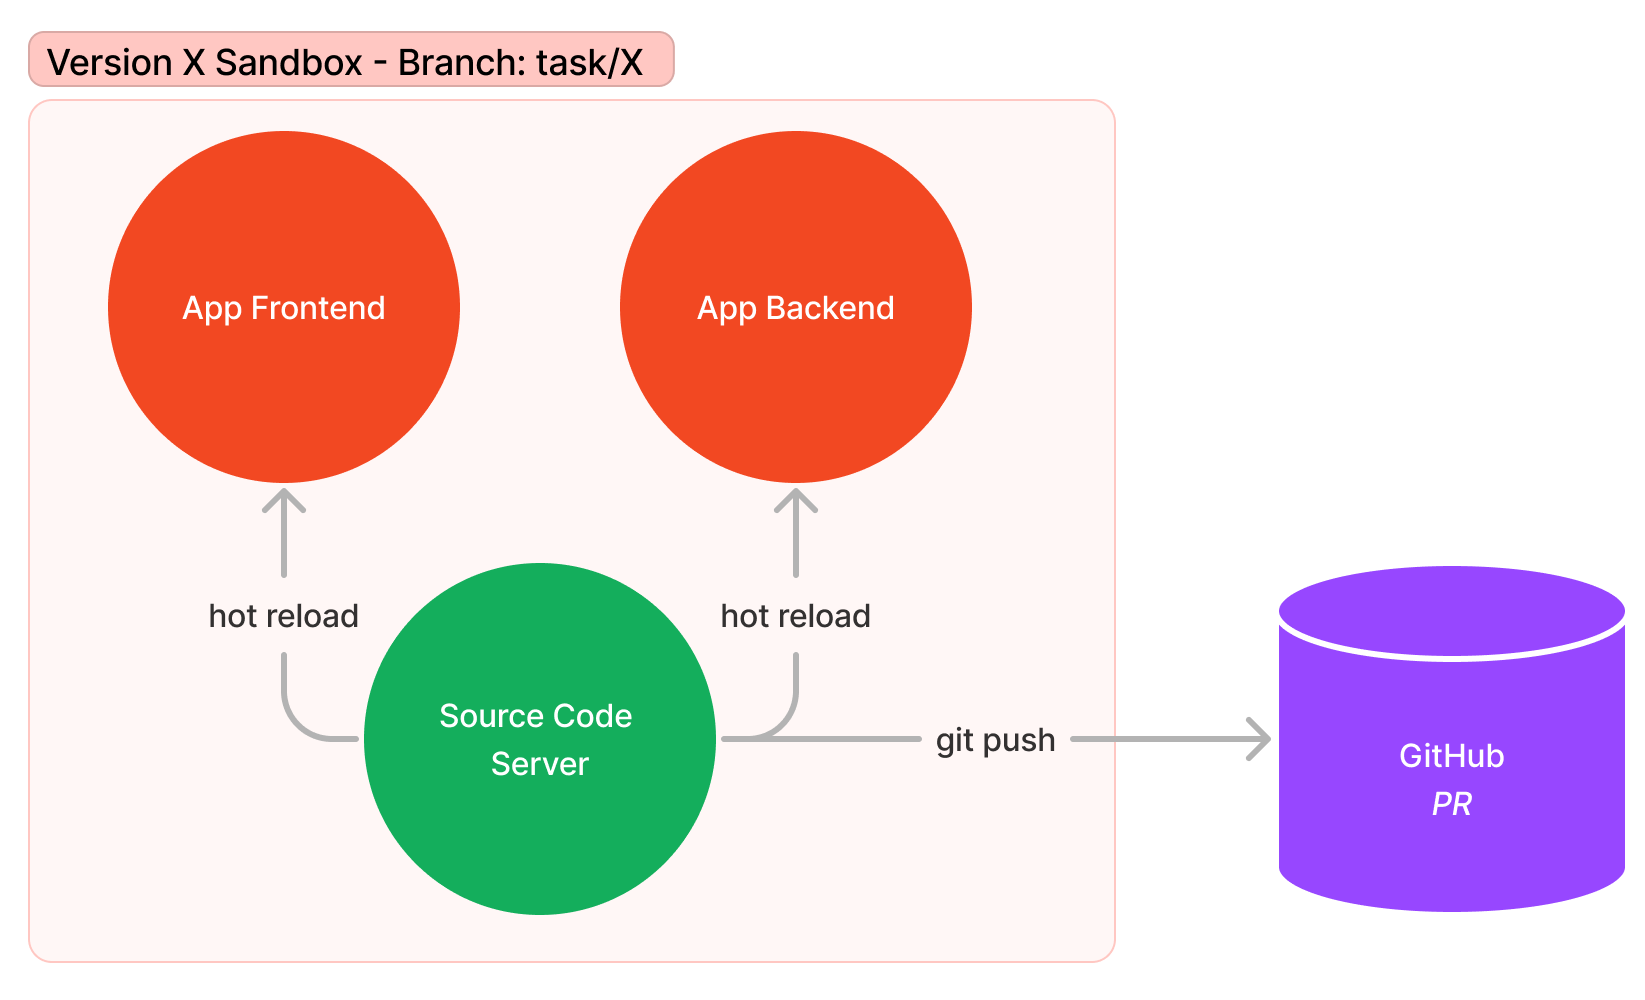
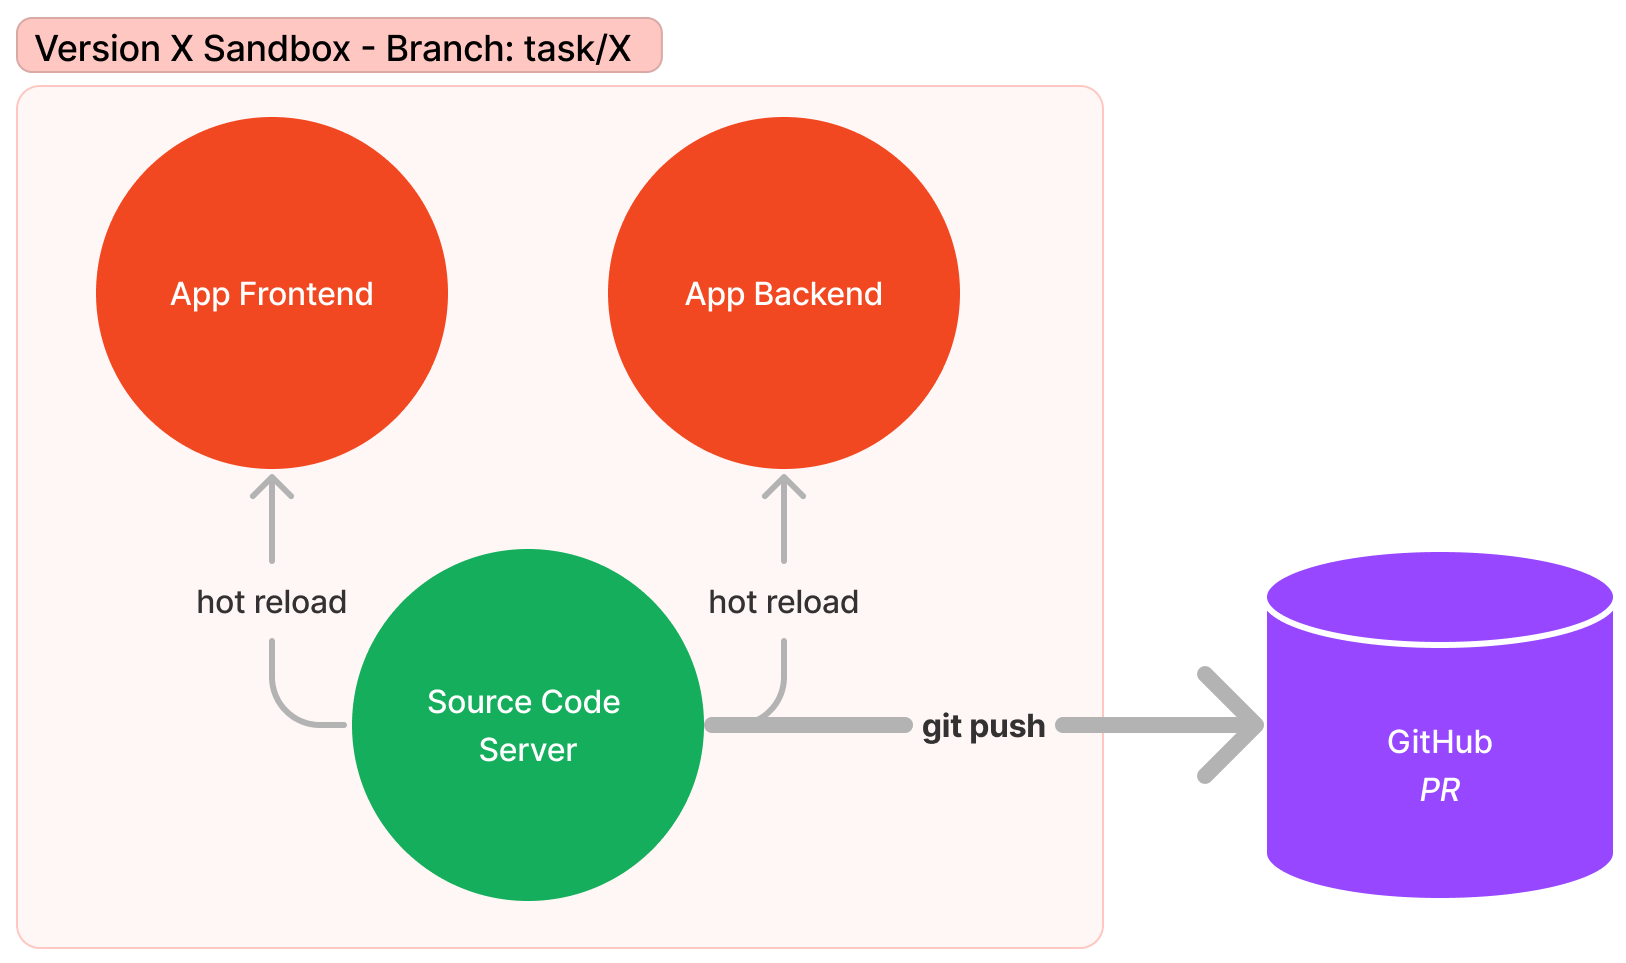
Added notes, made diagram changes more obvious

diff --git a/slides/pascal.md b/slides/pascal.md
@@ -9,6 +9,9 @@ Code-changes by AI must be "scoped"<br> - structurally restricted.<!-- .element:
 A Scope for changes should consist of:
 1. A whitelist of what is allowed to be changed <!-- .element: class="fragment" -->
 1. Guidance examples for how changes should be made <!-- .element: class="fragment" -->
+Note:
+* Without a whitelist we can't be sure what the AI is changing
+* Guidance examples greatly limit the space of possible changes, because the AI is very good at copying examples
 
 
 
@@ -27,6 +30,9 @@ An example Scope for making markup changes in a frontend app:
 | Find the element matching this description | The 'Add to basket' button |
 | Action | Make the 'Add to basket' button more prominent by increasing its size using a Tailwind class |
 <!-- .element: style="font-size: 30px;" -->
+Note:
+* Guidance examples consist of a Change Request, a file to change, an element to change, and an action to take on the element
+* A key use of Guidance Examples is to communicate the "house style", for example using Tailwind classes instead of inline styles
 
 
 
@@ -38,6 +44,8 @@ An example Scope for making markup changes in a frontend app:
 | Find the element matching this description | One product in the list of products |
 | Action | Add the product description to the element by adding a `<p>` element with the description |
 <!-- .element: style="font-size: 30px;" -->
+Note:
+* What's cool here is being able to specify "one product in the list of products", which will be inside a for-loop, and "add the description", both of which require a huge amount of context-awareness, which we haven't had until AI systems.
 
 
 
@@ -59,7 +67,7 @@ The file to change is found from a semantic search over the whitelisted files.
 
 
 
-The description is suggested by the AI given the current Change Request and the guidance examples.
+The target element description is suggested by the AI given the current Change Request and the guidance examples.
 | | |
 | --- | --- |
 | Change Request | Make the main heading say 'Welcome to the Version Store' |
@@ -85,6 +93,8 @@ Sounds cool, but what if an adversarial prompt (or hallucination) makes the AI i
 require('child_process').exec('rm -rf /')
 ```
 <!-- .element: style="text-align: center" -->
+Note:
+* Scopes and guidance examples are all very good, but mean nothing in the face of an adversarial prompt or hallucination
 
 
 
@@ -95,18 +105,27 @@ We should deal with this the same way we deal with any other user-generated code
 
 
 ![Scoped change Sandbox](/images/just-sandbox.png "Scoped change sandbox") <!-- .element: style="max-width: 85%;" -->
+Note:
+* Go through the diagram chronologically
+* The sandbox is like a virtual developer laptop, for an AI developer 
 
 
 
-Each Sandbox could be a Kubernetes namespace running specific SHAs of all app services and databases, with source code in hot-reload mode.
+Each Sandbox could be a Kubernetes namespace running specific Git SHAs of all app services and databases, with source code in hot-reload mode.
 
 We call these Sandboxes "Versions" of a full-stack app, and run them on demand in our cloud <!-- .element: class="fragment" -->
 
+Note:
+Hence our name, Version Lens.
 
 
-How do we verify that changes made by the AI<br> were correct?
 
-![Scoped change Sandbox](/images/just-pr.png "Scoped change PR")<!-- .element: class="fragment" style="max-width: 80%;" -->
+How do we **verify** that changes made by the AI<br> were correct?
+
+![Scoped change Sandbox](/images/just-pr.png "Scoped change PR")<!-- .element: style="max-width: 75%;" -->
+
+Note:
+* We push changes to a task branch, and then open a Pull Request to be reviewed by a human developer
 
 
 
@@ -125,4 +144,8 @@ Measuring success
 
 
 Continuous improvement
-![Scoped change Sandbox](/images/pr-guidance.png "Scoped change learning")<!-- .element: class="fragment" style="max-width: 55%;" -->
+
+![Scoped change Sandbox](/images/pr-guidance.png "Scoped change learning")<!-- .element: style="max-width: 50%;" -->
+
+Note:
+* This is how the system learns, by storing successful changes as Guidance Examples for future use
